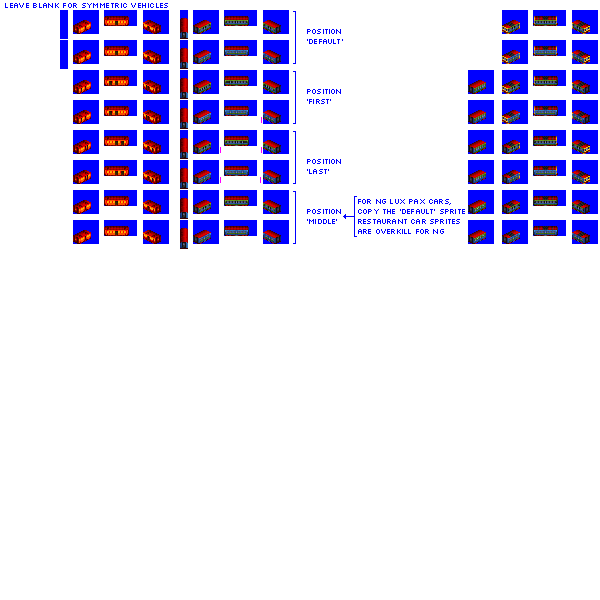
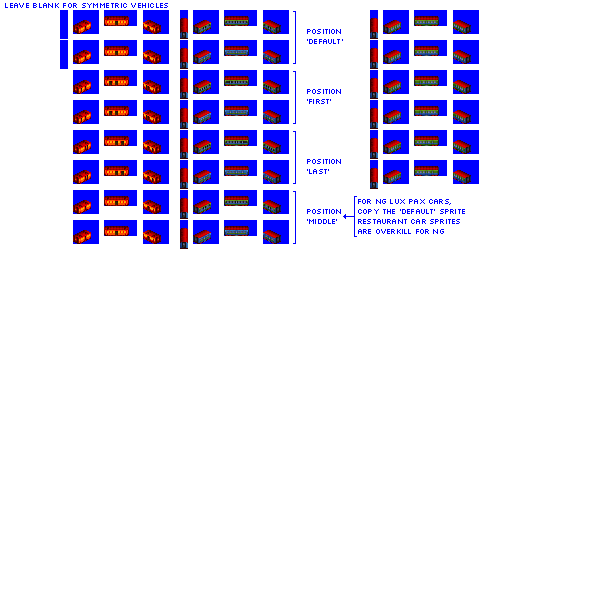
Change: sprites complete for NG gen 4 pax and luxury pax cars

Changed region(s): [[0.6, 0.0, 1.0, 0.42]]

diff --git a/src/vehicles/luxury_passenger_cars.py b/src/vehicles/luxury_passenger_cars.py
@@ -34,7 +34,7 @@ def main():
                                         gen=4,
                                         subtype='U',
                                         base_track_type='NG',
-                                        sprites_complete=False)
+                                        sprites_complete=True)
 
     consist.add_unit(type=PaxCar,
                      capacity=30,

diff --git a/src/vehicles/passenger_cars.py b/src/vehicles/passenger_cars.py
@@ -34,7 +34,7 @@ def main():
                                   gen=4,
                                   subtype='U',
                                   base_track_type='NG',
-                                  sprites_complete=False)
+                                  sprites_complete=True)
 
     consist.add_unit(type=PaxCar,
                      capacity=30,
